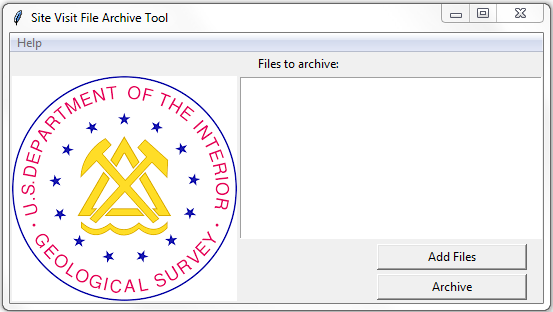
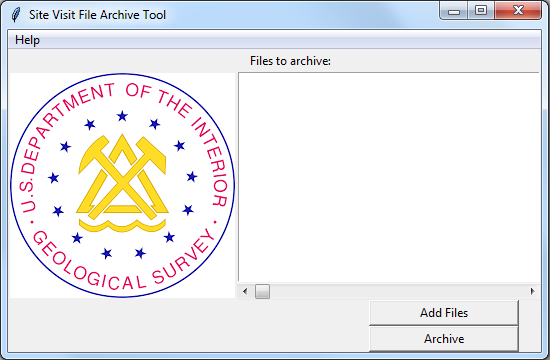
Added scrollbar, dynamic listbox resizing, and error message/continue for existing files

Changed region(s): [[0.0, 0.0, 1.0, 1.0], [0.4636, 0.7788, 0.4945, 0.8365]]

diff --git a/src/archive_files.py b/src/archive_files.py
@@ -150,20 +150,33 @@ def archive_files(files):
             ## Checking for special inspection type
             for insp in insp_type:
                 if insp != "None":
-                    os.mkdir(dest + state + "/" + gage_no + "/WY" + wy + "/" + date + "_insp")
-                    shutil.copy(source + "/" + f, dest + state + "/" + 
-                            gage_no + "/WY" + wy + "/" + date + "_insp")
-                    break
+                    try:
+                        os.mkdir(dest + state + "/" + gage_no + "/WY" + wy + "/" + date + "_insp")
+                        shutil.copy(source + "/" + f, dest + state + "/" + 
+                                gage_no + "/WY" + wy + "/" + date + "_insp")
+                        break
+                    
+                    except:
+                        print("ERROR: File may already exist!")
+                        continue
                 else:
-                    shutil.copy(source + "/" + f, dest + state + "/" + 
-                            gage_no + "/WY" + wy + "/" + date)
-        
+                    try:
+                        shutil.copy(source + "/" + f, dest + state + "/" + 
+                                gage_no + "/WY" + wy + "/" + date)
+                    except:
+                        print("ERROR: File may already exist!")
+                        continue
         else:
             ## appending measurement numbers to directory name
             meas_nos = ""
             for m in meas:
               meas_nos += "_" + m  
             
-            os.mkdir(dest + state + "/" +gage_no + "/WY" + wy + "/" + date + "_"  + m)
-            shutil.copy( source + "/" + f, dest + state + "/" + gage_no + 
-                    "/WY"+ wy + "/" + date + meas_nos)
+            try:
+                os.mkdir(dest + state + "/" +gage_no + "/WY" + wy + "/" + date + "_"  + m)
+                shutil.copy( source + "/" + f, dest + state + "/" + gage_no + 
+                        "/WY"+ wy + "/" + date + meas_nos)
+
+            except:
+                print("ERROR: File may already exist!")
+                continue

diff --git a/src/GUI_archive.py b/src/GUI_archive.py
@@ -15,6 +15,10 @@ def process():
 root = Tk()
 root.title("Site Visit File Archive Tool")
 
+root.columnconfigure(1, weight = 1)
+root.columnconfigure(2, weight = 2)
+root.rowconfigure(1, weight =1 )
+
 menu = Menu(root)
 root.config(menu= menu) 
 
@@ -31,16 +35,21 @@ insert_logo = Label(image = logo).grid(row = 1, rowspan = 3, column = 0)
 label = Label(text = "Files to archive: ", justify = RIGHT)
 label.grid(row = 0, column = 1)
 
-listbox = Listbox(root, width = 50, height = 10)
-##Setting width to 0 allows for dynamic sizing, but looks terrible 
-## until there are files present. Need a solution here.
-#listbox.config(width = 0)
-listbox.grid(row = 1, column = 1, columnspan = 2)
+listbox = Listbox(root, width = 50, height = 13)
+listbox.grid(row = 1, column = 1, columnspan = 2, sticky = NSEW)
+listbox.columnconfigure(1, weight = 1)
+listbox.columnconfigure(2, weight = 1)
+listbox.rowconfigure(1, weight = 1)
+
+#yscroll = Scrollbar(root, orient = 'vertical', command = listbox.yview)
+#yscroll.grid(row = 1, column = 2, sticky = NS)
+xscroll = Scrollbar(root, orient = 'horizontal', command = listbox.xview)
+xscroll.grid(row = 3, column = 1, columnspan = 2, sticky = EW)
 
 addButton = Button( text = "Add Files", command = insert_files, width = 20)
-addButton.grid(row = 2, column = 2)
+addButton.grid(row = 4, column = 2)
 
 procButton = Button( text = "Archive", command = process, width = 20)
-procButton.grid(row = 3, column = 2)
+procButton.grid(row = 5, column = 2)
 
 root.mainloop()
